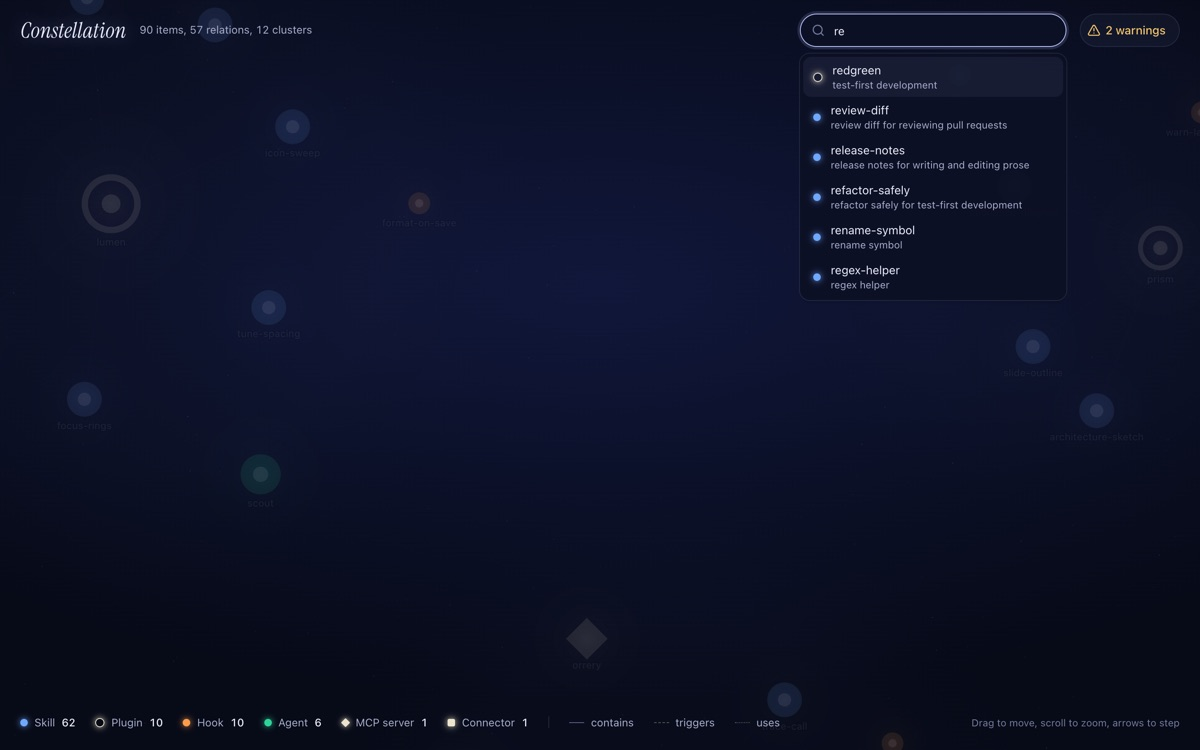
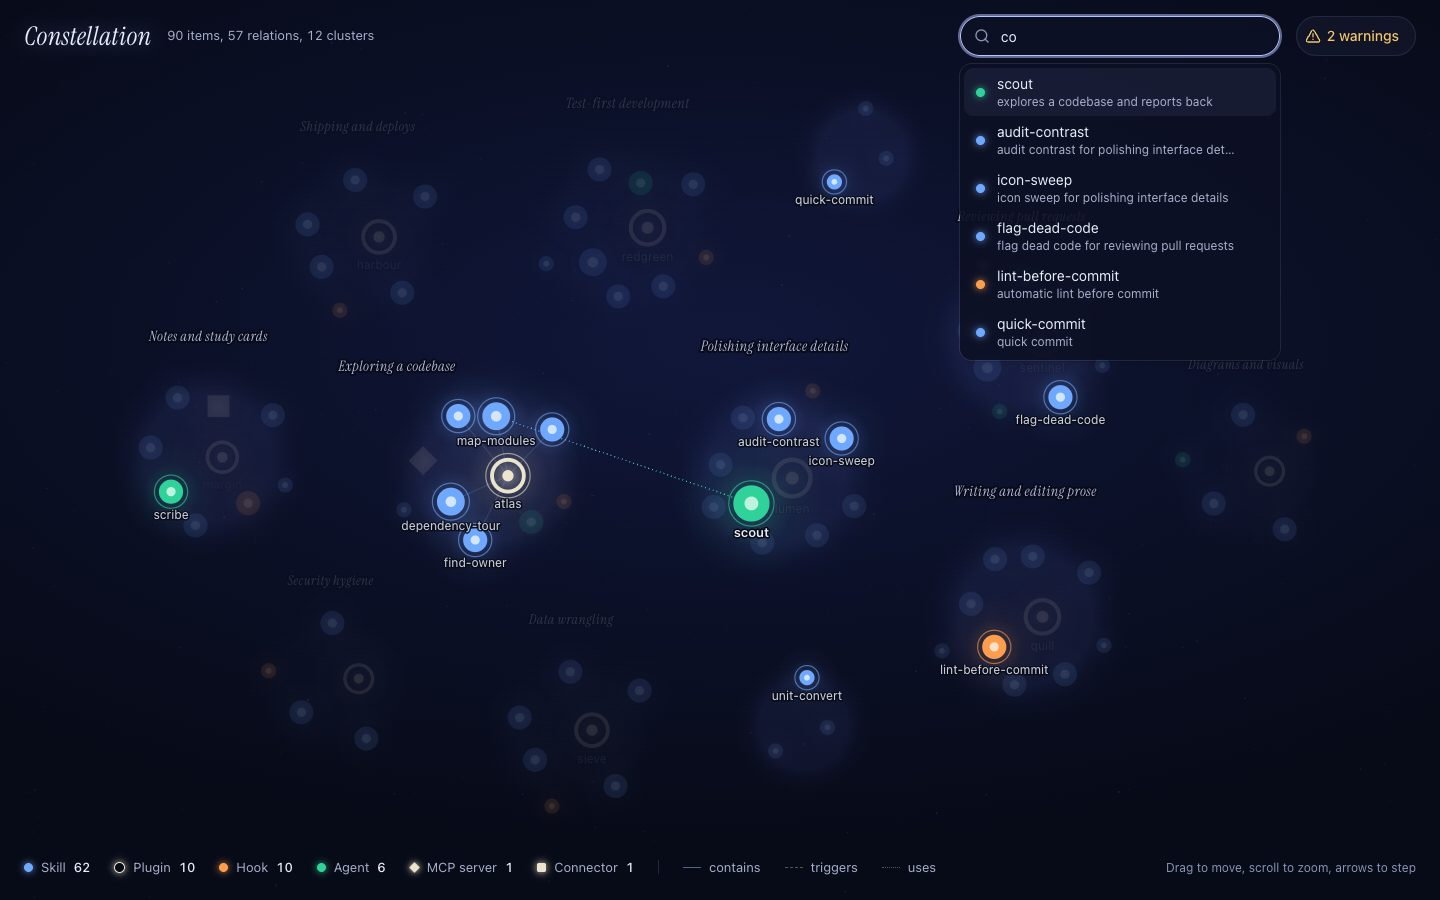
Screenshots from demo data, design note updated, demo-250 and offline demos

diff --git a/docs/design/graph-app.md b/docs/design/graph-app.md
@@ -8,9 +8,13 @@ Vite + React + TypeScript + Tailwind v4 + shadcn/ui (radix base, `nova` preset r
 
 | File | Role |
 |---|---|
-| `src/graph/model.ts` | API types, `buildModel` (degree, radius, clusters, sunflower seeding), `search`, arrow-key `step` |
+| `src/graph/model.ts` | API types, `buildModel` (degree, radius, clusters, the "Other" region), `search`, arrow-key `step` |
+| `src/graph/layout.ts` | pure layout: packed cluster circles, slots inside them, the forces (`applyForces`); runs in Node |
+| `src/graph/names.ts` | pure cluster-name placer (`chooseSpot`), shared by the painter and the metrics script |
+| `scripts/layout-metrics.ts` | `npm run layout:check`: layout and name-placement metrics on the demos (`--legacy` replays the old layout) |
 | `src/graph/paint.ts` | every canvas pixel: dust, halos, glows, edges, star shapes, reticle, labels; `FEEL` knobs |
-| `src/components/StarMap.tsx` | ForceGraph2D wiring, forces, fit, glide, keyboard stepping |
+| `src/components/StarMap.tsx` | ForceGraph2D wiring, fit, glide, eased wheel zoom, idle pause, keyboard stepping |
+| `src/components/Atlas.tsx` | the screen once data is loaded (lazy chunk); `App.tsx` only fetches and shows states |
 | `TopBar.tsx`, `Inspector.tsx`, `Legend.tsx`, `States.tsx` | DOM chrome on shadcn primitives (Command, Popover, Button, Kbd, Empty, Separator) |
 | `src/index.css` | **all tokens** (`:root`), shadcn mapping, `.glyph` kind marks |
 
@@ -58,27 +62,61 @@ Tuning lives in `FEEL` (paint.ts) and the force setup in StarMap.tsx.
 - Phone (640px and below): search drops under the wordmark, inspector becomes a 58dvh bottom sheet with a grab bar, legend hides while it is open, edge legend and key hint hide.
 - Empty state (no Items) and error state (with the server's reason and Try again) use shadcn Empty.
 
-## Checked by eye (headless Chrome via DevTools, demo data)
+## Polish pass (ui-polish)
 
-- [x] rest, fitted view with atlas names (`screenshots/1-rest.jpg`)
-- [x] hover fade with neighbour names (`2-hover.jpg`)
-- [x] keyboard selection, inspector with cost figures and grouped Relations (`3-selected.jpg`)
-- [x] search popover with kind glyphs and labels (`4-search.jpg`), choose by Enter
-- [x] zoomed in: capped radii, all names (`5b-zoomed-in.jpg`)
-- [x] mid-drag, neighbours following (`6-drag.jpg`)
-- [x] phone bottom sheet (`9-phone-sheet.jpg`), phone rest view
-- [x] empty state (`10-empty.jpg`); error state checked, not saved (it prints a local path)
-- [x] warnings popover opens
+What changed, in the order the work was prioritised. Numbers come from `demo-250.json` (239 Items, 24 clusters after merging the small ones, 56% of Items without a Relation) unless stated.
+
+**Layout (the main complaint on a real scan).** Half the Items have no Relations, so the old force layout let them drift between clusters. Every Item now has a fixed home (`layout.ts`): cluster circles are packed first (radius from member count, a clear rim between circles for the name), then members take evenly spaced phyllotaxis slots inside their circle, hubs in the middle. Clusters under 3 Items and unclustered Items share one region named "Other". Forces only tidy around the homes (slot pull, same-cluster links, collide, a contain force), the layout is settled before the first paint and is deterministic (seeded, no `Math.random`). A dragged Item springs back to its slot because slots never move; hubs are pulled 0.25 so they come home too. Cross-cluster links are long and weak and drawn at 45% alpha so they stay in the background. On wide screens the packing spreads sideways, on tall ones downwards.
+
+| `npm run layout:check` | old force layout (replica) | new slot layout |
+|---|---|---|
+| cluster circles that overlap or leave under 20 units (250 demo, desktop / phone) | 44 / 48 | 0 / 0 |
+| Items inside their own halo | 97.5% | 100% |
+| two runs give the same picture | no | yes |
+| Items closer than r+r+1 | 0 | 0 |
+| clusters of 5+ that get a name at the fitted view, desktop / phone | 18 of 19 / 11 of 19 | 19 of 19 / 14 of 19 |
+| names touching a star or another name | 0 | 0 |
+
+The phone ratio is 74%, below the 80% asked for desktop, so the phone threshold in the script is 70%: 24 clusters on 390 px do not all fit a 13 px name at the fitted view; the rest come in as you zoom (from z = 1.15) or when you hover one of their Items.
+
+**Cluster names.** Candidates sit on the rim of the cluster's circle (12 angles starting at the top, three rings out, then the same at 82% size). A name that finds no spot fades out; it never sits on a star, a hub name or another name. Names ease to a new spot, keep their last spot by preference, size 13 to 17 px by member count, and only clusters of 5 or more try at the fitted view. The cluster under the hovered or selected Item keeps its name at any zoom. Names fade out between z = 1.2 and 1.8 as Item names arrive.
+
+**Zoom.** Wheel and trackpad pinch go through our own handler (capture phase, d3-zoom never sees them): the target zoom moves with each event and the real zoom closes `1 - e^(-dt/90ms)` of the gap each frame, anchored on the cursor, with limits of 0.6x to 10x the fitted zoom. Measured: about 30 frames of smooth easing for one big wheel flick. Touch pinch and drag-pan stay with d3-zoom so they track the fingers. Reduced motion jumps.
+
+**Phone fit.** The map is fitted to the sky the chrome leaves free (top bar, legend and inspector are measured from the DOM), the layout is taller on tall screens, and the fit follows the circles, not just the stars.
+
+**Search.** Every match stays lit while typing and carries a ring (so it never relies on brightness alone); the highlighted result is emphasised and named; the result count is announced politely.
+
+**Idle.** The canvas stops painting when nothing moves (0 draws in 3 s at rest, was 60 per second), wakes on hover, drag, zoom, selection and search, and rests again once every fade settles. A drag runs the simulation while held and for 150 ticks after release (about 2 s).
+
+**Bundle.** The first load is now the app shell (`index-*.js`) only; the map, search and inspector are lazy chunks that download in parallel with the data fetch.
+
+| gzip | before | after |
+|---|---|---|
+| entry JS | 176.2 kB (everything) | 77.8 kB |
+| Atlas chunk (force-graph, d3, cmdk, radix) | in entry | 103.4 kB |
+| Inspector chunk (loaded when idle) | in entry | 2.0 kB |
+| CSS | 10.5 kB | 10.4 kB |
+
+**Accessibility.** `--text-3` is now `#8a93b6`: 5.7:1 or better on the sky and on the panels (it was 4.2:1 on the centre glow, below AA). Other pairs checked: text 14.8+, text-2 7.9+, warn 10.7+, cluster names 11.2+. Search input and warnings button are 44 px on phones, the search has a visible 2 px focus ring, results have a label, a keyboard-focused map rings the active star instead of the viewport, reduced motion makes fades and zoom instant.
+
+**Offline scan.** A file from `constellation scan --offline` (`demo-offline.json`) has no labels, cluster names that are the first member's name (read as words), costs that are null: those show as "unknown" in italics, never 0. The top bar says "offline scan"; the warnings popover holds the "Offline: ..." message.
+
+## Checked by eye (headless Chrome via DevTools, demo data only)
+
+- [x] rest, hover, selected with inspector, search with several matches lit, zoomed in, mid-drag (`1-` to `6-`)
+- [x] phone rest, search, bottom sheet (`7-` to `9-`); empty state (`10-`)
+- [x] offline-style file: rest, inspector, phone (`11-` to `13-`)
+- [x] 250 Items: before (old force layout), after, phone, zoomed (`14-` to `17-`)
+- [x] hub dragged 130 px and released: back within 5 px after about 3 s
 - [ ] real touch gestures (pinch, tap) on a device; only emulated
 - [ ] Safari and Firefox (canvas `letterSpacing` is Chrome/Safari 17+; Firefox ignores it harmlessly)
+- [ ] screen reader pass on the Relation hover preview
 
-## Rough edges to polish
+## What remains
 
-1. Phone: the map fits the graph's bounds, leaving empty sky above and below; consider a phone-specific fit or a tighter layout. Cluster names at phone size can still crowd.
-2. Cluster names sit at a fixed fraction above the centroid; a smarter spot (largest empty area near the cluster) would avoid overlapping stars in dense regions.
-3. Search previews the highlighted result only; matching Items are not otherwise lit while typing (the `matches` focus set exists but `preview` wins).
-4. The canvas repaints every frame (`autoPauseRedraw={false}`) for the eased fades; pause when every fade has settled to save battery.
-5. Context cost does not yet encode on the map (size or a halo ring); the inspector has room and the model already carries `cost`.
-6. Bundle is a single 530 KB chunk; fine locally, worth splitting for the public Snapshot.
-7. The focus ring on the map is an inset ring around the whole viewport; a ring on the active star would read better.
-8. Relation hover preview and the inspector's scroll position reset are not yet checked with a screen reader.
+1. Culling off-screen Items and links, a label grid for more than 300 candidates, and one sprite per halo (all in `docs/plans/graph-layout.md` section 4): not done, 250 Items paint fine; profile at 1000 before building.
+2. Context cost does not yet encode on the map (ticket #10).
+3. No re-layout on resize (the fit follows the window while the view is still fitted; the packing shape is chosen at load).
+4. Cluster names at 24+ clusters on a phone: a quarter wait for zoom.
+5. `playwright`-style tests for drag spring-back and the idle pause are manual scripts, not in CI.
